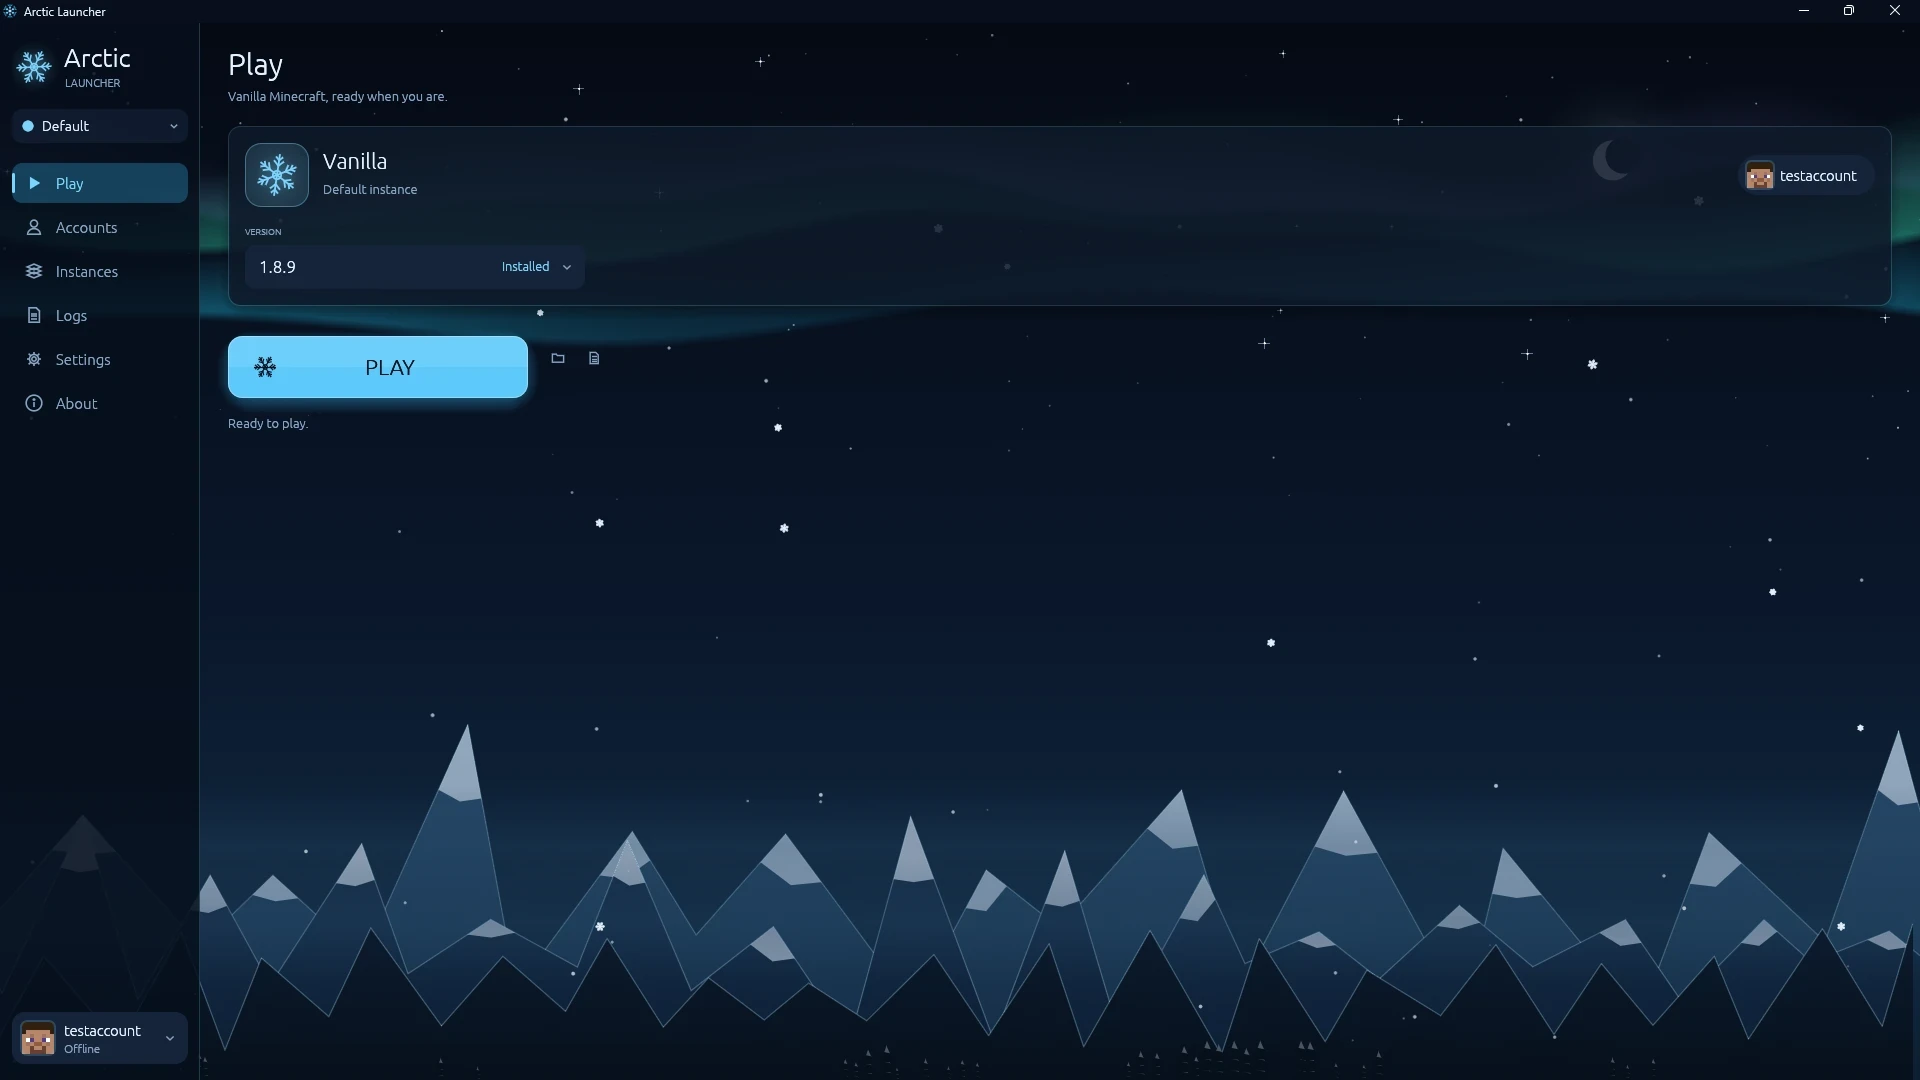
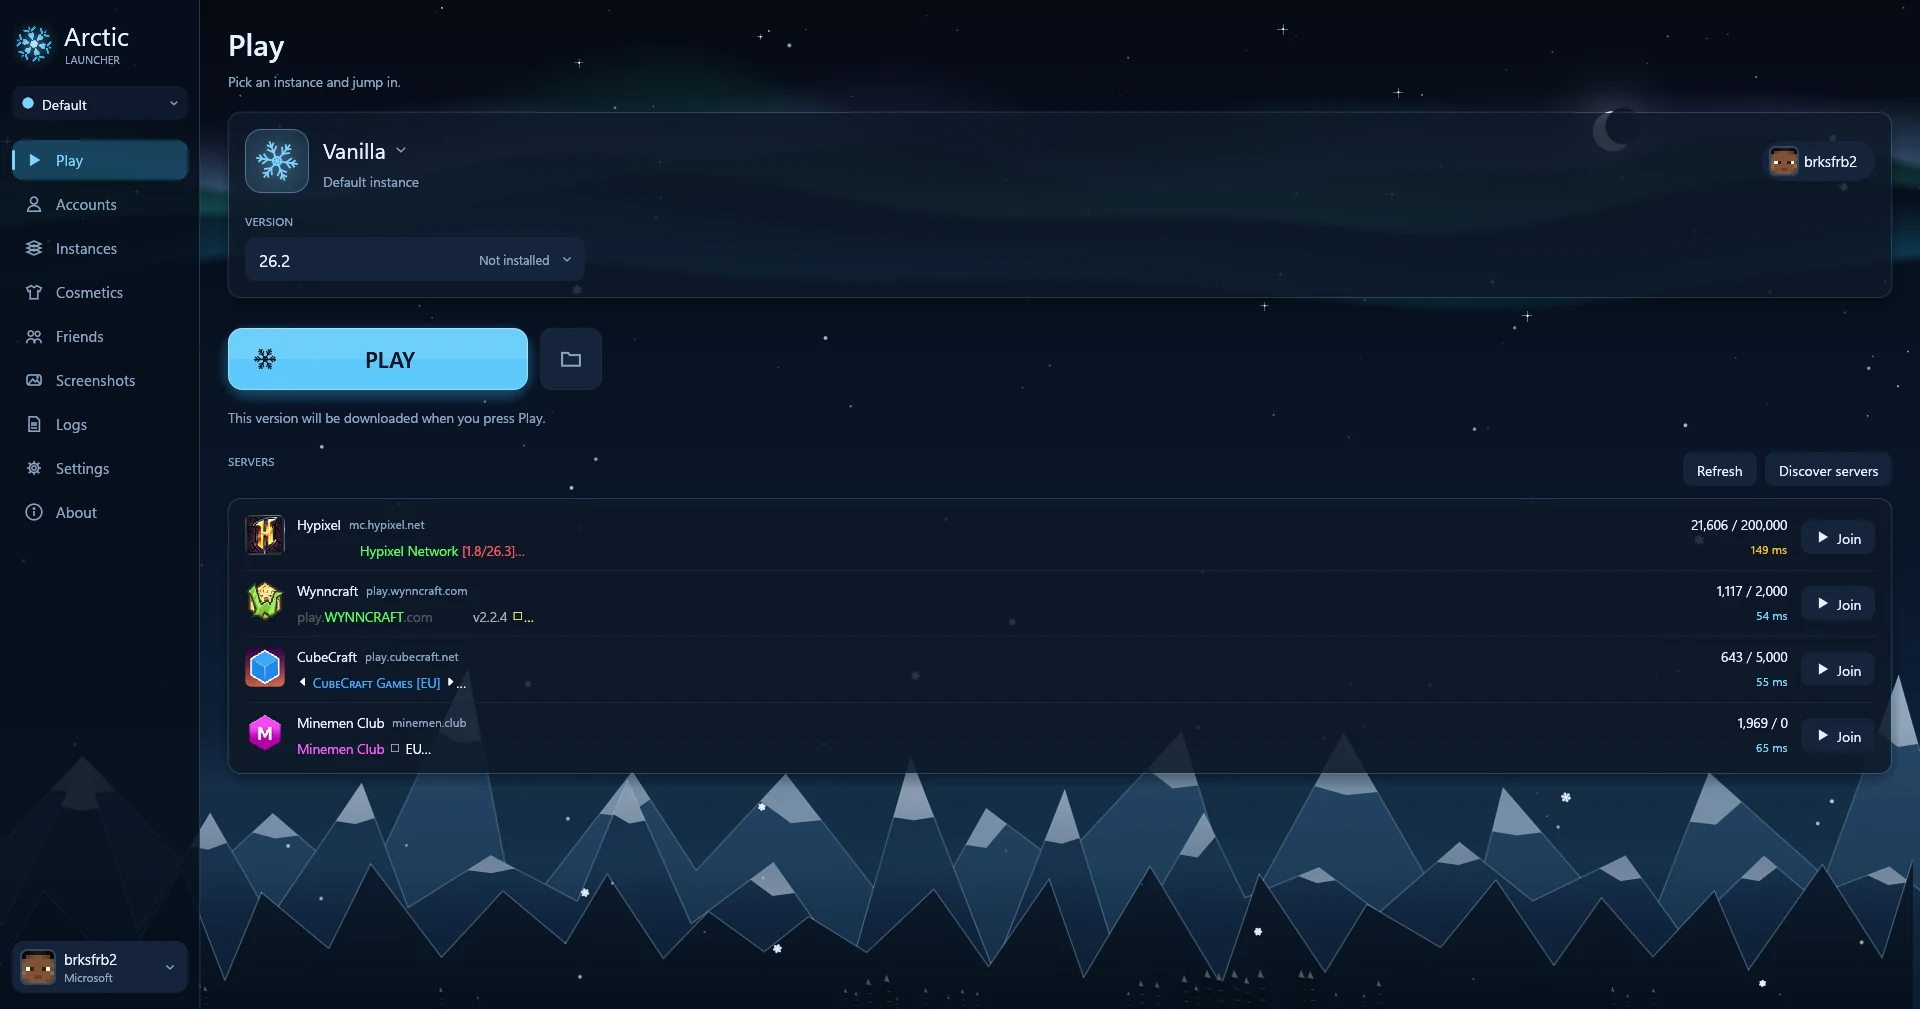
docs: refresh README for macOS, the client's versions, replays, cosmetics and imports
New screenshots, macOS install steps and paths, Arctic Client on 1.8.9
through the newest release, replays, cosmetics and emotes, imports from
other launchers and clients, encrypted sign-ins, proxy, and a supporter
line.

diff --git a/README.md b/README.md
@@ -13,7 +13,7 @@
   <a href="https://github.com/brksfrb/arctic-launcher/releases/latest"><img alt="Latest release" src="https://img.shields.io/github/v/release/brksfrb/arctic-launcher?style=flat-square&color=38bdf8"></a>
   <a href="https://github.com/brksfrb/arctic-launcher/actions/workflows/ci.yml"><img alt="Build" src="https://img.shields.io/github/actions/workflow/status/brksfrb/arctic-launcher/ci.yml?branch=main&style=flat-square"></a>
   <a href="LICENSE"><img alt="License: GPL-3.0" src="https://img.shields.io/badge/license-GPL--3.0-7dd3fc?style=flat-square"></a>
-  <img alt="Windows and Linux" src="https://img.shields.io/badge/platforms-Windows%20%7C%20Linux-0ea5e9?style=flat-square">
+  <img alt="Windows, macOS and Linux" src="https://img.shields.io/badge/platforms-Windows%20%7C%20macOS%20%7C%20Linux-0ea5e9?style=flat-square">
 </p>
 
 <p align="center">
@@ -38,8 +38,11 @@
 - **Mods in a click.** Create Fabric, Quilt, NeoForge or Forge instances, then search
   Modrinth and install mods with their dependencies, or install a whole modpack in one
   click. Each instance keeps its own version, mods, worlds and Java settings.
-- **Bring your worlds.** Import worlds from the Minecraft Launcher, Prism Launcher, other
-  instances or a .zip, and back them up with one click.
+- **Bring your stuff over.** Arctic finds what you have in the Minecraft Launcher, Prism,
+  MultiMC, the Modrinth App, CurseForge, ATLauncher, GDLauncher, TLauncher, Lunar, Badlion,
+  Feather and LabyMod and copies your instances, worlds, servers and settings (the
+  originals stay as they are). Import single worlds from a folder or a .zip, and back them
+  up with one click.
 - **Play together.** Invite friends into your world with a code. No server, no port
   forwarding: open your world to LAN and Arctic connects you directly (or through an
   encrypted relay when a direct link isn't possible).
@@ -47,6 +50,8 @@
   name), choose a cape or use your own image (animated ones too), and every Arctic player
   sees it, on any account. Preview everything on a 3D model. Microsoft accounts can also change their real
   Minecraft skin from here.
+- **Cosmetics and emotes, free.** Hats, headphones, back items, shoulder pets and more, plus
+  emotes from a wheel in game. Every Arctic player sees them.
 - **Skin gallery.** Browse skins other players shared, search by name or creator, and wear
   one in a click. Share your own from your library.
 - **Arctic Client.** Vanilla gets a fresh look: restyled menus (pick Arctic, Aurora or
@@ -57,8 +62,11 @@
   too, colored by what you aim at), a smooth font, chat timestamps and mentions, quick
   chat keys with {x} {y} {z}, waypoints, your own time of day, block outline and hit
   color, scoreboard tweaks, a streamer mode, and everyone's Arctic looks in game. Press Right Shift in game for the Arctic menu. It's on
-  by default for Minecraft 1.21.6 and newer, comes to Fabric and Quilt instances too, and you can turn
-  it off per instance.
+  by default for Vanilla from 1.8.9 up to the newest release (1.8.9, 1.9.4, 1.10.2,
+  1.11.2, 1.12.2 and 1.15.2 onward), comes to Fabric and Quilt instances too, and you can turn
+  it off per instance, or choose pure vanilla during setup.
+- **Replays.** The Arctic Client keeps the last minutes of your game; save them when
+  something happens, then watch from any angle in 3D, seek around, or export a video.
 - **Friends, chat and voice.** Add friends with a code, see who's online and where, invite
   them to your server, chat and send screenshots from the launcher or in game, and talk
   with proximity voice chat (it also works with Simple Voice Chat servers).
@@ -70,11 +78,15 @@
   EntityCulling and ModernFix to Vanilla for much higher FPS, fetched from Modrinth for your version.
   It's on by default and works on any version Fabric supports.
 - **Your accounts, side by side.** Sign in with Microsoft in the browser or with a short
-  code. Keep several accounts and switch in one click.
+  code. Keep several accounts and switch in one click. Sign-ins stay on your PC, encrypted
+  for your user account, and never leave it except to Microsoft and Mojang.
 - **Profiles.** Keep completely separate setups on one PC, each with its own accounts,
   settings, instances and worlds. Switch from the top of the sidebar.
+- **Screenshots in one place.** Every instance's screenshots, newest first: open, copy,
+  or send one to a friend.
 - **Live logs.** Minecraft's output appears inside the launcher, readable, searchable and
   filterable by warnings or errors.
+- **Proxy.** Send the launcher and the game through a SOCKS5 proxy.
 - **Made to look at.** An animated arctic night with aurora, snowfall and shooting stars.
   Aurora, Dark and Light themes.
 - **Discord status.** Friends see what you're playing. Turn it off in Settings.
@@ -94,6 +106,16 @@
 
 Windows may show a SmartScreen prompt for new apps. Choose **More info → Run anyway**.
 
+### macOS
+
+1. Download **`arctic-launcher-macos.zip`** from the
+   [latest release](https://github.com/brksfrb/arctic-launcher/releases/latest) and unzip it.
+2. Move **Arctic Launcher** to Applications and open it. It runs on Apple Silicon and Intel
+   Macs.
+
+The app isn't notarized by Apple yet, so the first time macOS asks: right-click the app,
+choose **Open**, then **Open** again.
+
 ### Linux
 
 1. Download **`arctic-launcher-linux-x64`** from the
@@ -109,7 +131,7 @@ Works on X11 and Wayland desktops with OpenGL.
 
 ### Command line tool (optional)
 
-Grab `arctic-windows-x64.exe` or `arctic-linux-x64` from the same release and put it on
+Grab `arctic-windows-x64.exe`, `arctic-macos` or `arctic-linux-x64` from the same release and put it on
 your `PATH` as `arctic`. See the [command line guide](docs/cli.md).
 
 ## Getting started
@@ -147,12 +169,14 @@ Everything also works with `--json` for scripts. Full reference:
 ## FAQ
 
 **Where are my files?**
-Windows: `%LOCALAPPDATA%\ArcticLauncher`. Linux: `~/.local/share/ArcticLauncher`.
+Windows: `%LOCALAPPDATA%\ArcticLauncher`. macOS: `~/Library/Application Support/ArcticLauncher`.
+Linux: `~/.local/share/ArcticLauncher`.
 Each profile lives in `profiles/<name>/`. Worlds are inside
 `instances/vanilla/minecraft/saves`. `arctic paths` prints them all.
 
 **Where are my sign-in details stored?**
-Only on your computer, in your profile folder. They are sent only to Microsoft, Xbox and
+Only on your computer, in your profile folder, encrypted so that only your user account on
+that PC can read them (a copied file is useless elsewhere). They are sent only to Microsoft, Xbox and
 Mojang to sign you in. Arctic's own service for looks never receives your password or
 tokens: it checks who you are the same way a Minecraft server does.
 
@@ -177,10 +201,19 @@ Yes, both of you need Arctic Launcher, the same Minecraft version and the same m
 No. Arctic Launcher is an independent project, not approved by or associated with Mojang
 or Microsoft.
 
+<p align="center">
+  <img src="docs/assets/cosmetics.webp" alt="Skins, capes and cosmetics" width="900">
+</p>
+
 ## Building from source
 
 See [docs/building.md](docs/building.md). The architecture overview is in
 [docs/architecture.md](docs/architecture.md).
+
+## Supported by
+
+Arctic is supported by [Flash Hosting](https://flashhosting.net), game servers for when
+your world needs to stay up while you're offline.
 
 ## License
 
